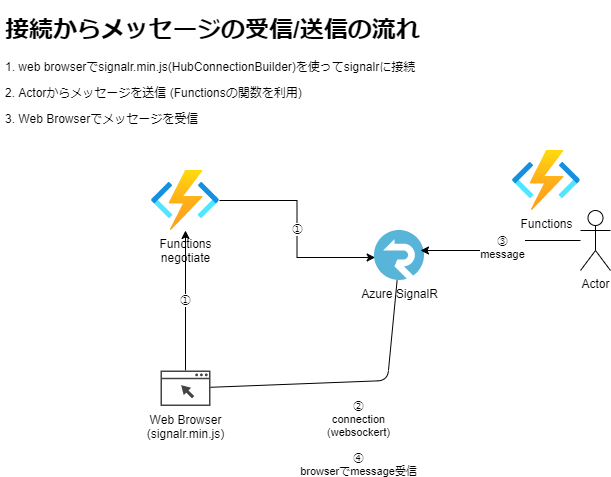
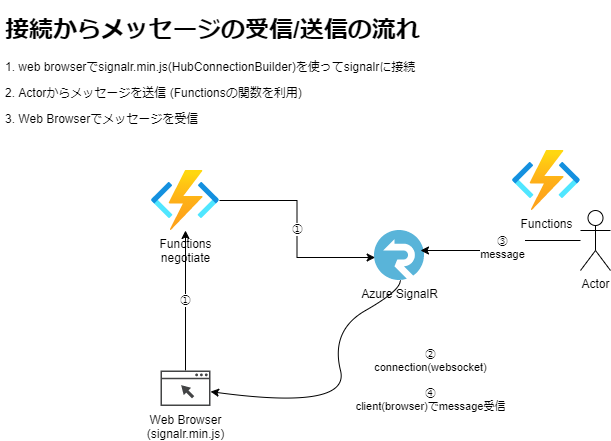
pubsub追記

diff --git a/func_app_3_pubsub/negotiate/index.js b/func_app_3_pubsub/negotiate/index.js
@@ -1,5 +1,5 @@
 module.exports = function (context, req, connection) {
-    context.log('negotiate start...');
+    context.log('negotiate start... connection:' + connection);
     context.res = { body: connection };
     context.done();
 };

diff --git a/func_app_3_pubsub/README.md b/func_app_3_pubsub/README.md
@@ -1,14 +1,42 @@
 # FunctionsでPubSub を利用してみる
 
+https://docs.microsoft.com/ja-jp/azure/azure-web-pubsub/quickstart-serverless?tabs=javascript
+
 ## SignalRとの違い
 websocketをそのまま利用するので、SignalRのようにライブラリを利用する必要がない。
 接続できるクライアントに制限がない。
-.NETを利用している場合はSignalRのが
+
 ## 用途
-SignalRとほぼ同じ。
+※SignalRと同様の用途
+```
+頻度の高いデータの更新
+ダッシュボードと監視
+チャット
+地図上のリアルタイムの位置
+対象を絞ったリアルタイムの広告
+コラボレーションアプリ(ホワイトボードなど)
+プッシュ通知
+リアルタイムのブロードキャスト
+Iotデバイス
+オートメーション
+```
+
+## Azure SignalRとの違い
+機能的にはほぼ同様
+すでにSignalRを利用している場合はSignalRを選択する
+SignalRはASP.NETを利用する場合は.NET エコシステム (Blazor など) と統合できる。Blazorとは.NETでクライアント側 Web UI (SPA) を構築するためのフレームワーク。
+PubSubはの方は汎用的なWebSocketサービスとなり、SignalRライブラリが不要なためクライアントを選ばない。
 
 ## PubSub インスタンス作成
 ```
 az webpubsub create --name "az-func-pubsub-example" --resource-group "az-func-example-rg" --location "japaneast" --sku Free_F1
 az webpubsub key show --name az-func-pubsub-example --resource-group az-func-example-rg
 ```
+
+
+## 接続からメッセージ受信・送信の流れ
+
+sampleアプリでのメッセージの送受信の流れ
+
+![AzurePubSubxFunctions](./AzurePubSubxFunctions.png)
+

diff --git a/README.md b/README.md
@@ -14,12 +14,11 @@ az storage account show-connection-string -g az-func-example-rg -n funcstorage00
 
 # functions
 az functionapp create -g az-func-example-rg --consumption-plan-location japaneast --runtime node --runtime-version 14 --functions-version 4 --name my-example-func --storage-account funcstorage0001
-
 ```
 
 ※従量課金プランで作成しているので開発中は不用意にスケーリングされないようにScaleLimitを設定しておきます。
 ```
-az resource update --resource-type Microsoft.Web/sites -g az-func-example-rg -n my-example-func/config/web --set properties.functionAppScaleLimit=2
+az resource update --resource-type Microsoft.Web/sites -g az-func-example-rg -n my-example-func/config/web --set properties.functionAppScaleLimit=1
 ```
 
 ## Functions Core tools
